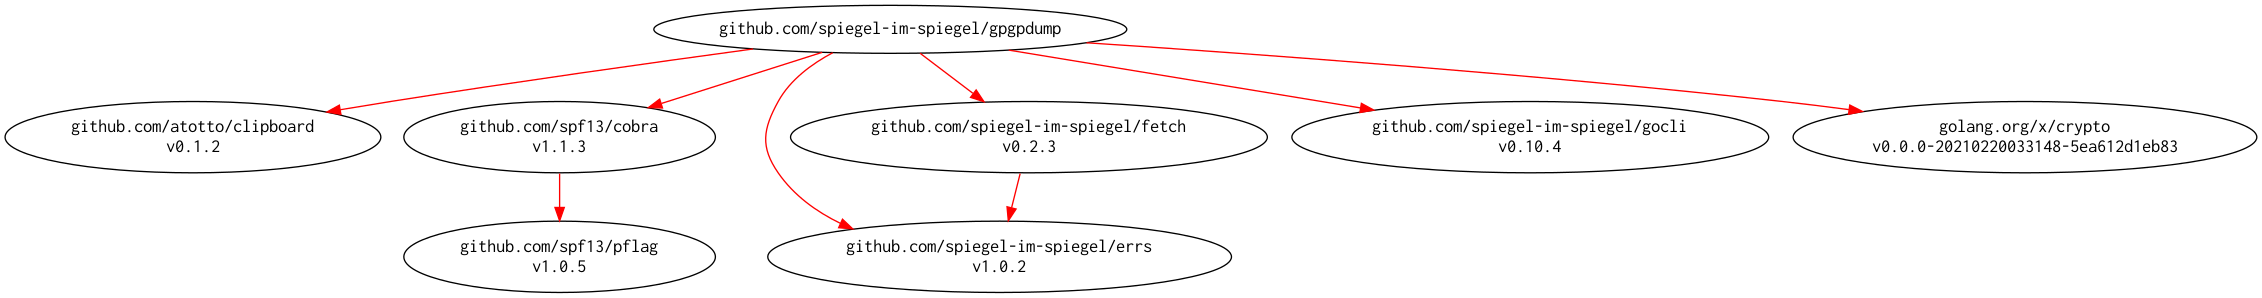
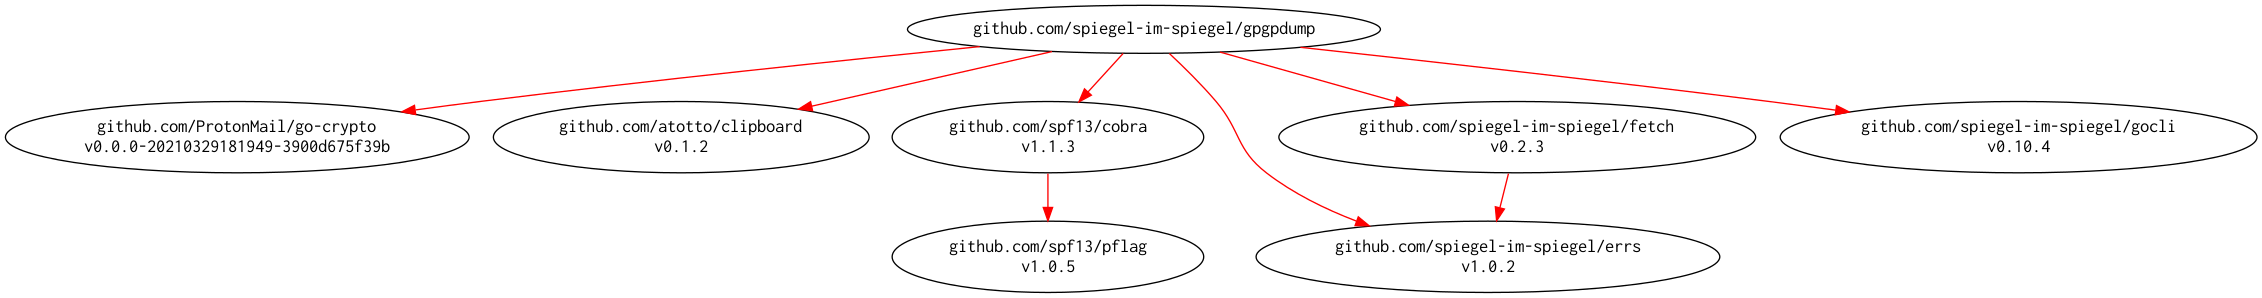
Change golang.org/x/crypto/openpgp to github.com/ProtonMail/go-crypto/openpgp package

diff --git a/parse/tags/tags.go b/parse/tags/tags.go
@@ -1,11 +1,11 @@
 package tags
 
 import (
+	"github.com/ProtonMail/go-crypto/openpgp/packet"
 	"github.com/spiegel-im-spiegel/gpgpdump/parse/context"
 	"github.com/spiegel-im-spiegel/gpgpdump/parse/reader"
 	"github.com/spiegel-im-spiegel/gpgpdump/parse/result"
 	"github.com/spiegel-im-spiegel/gpgpdump/parse/values"
-	"golang.org/x/crypto/openpgp/packet"
 )
 
 //tagInfo class as packet result. for all tags

diff --git a/parse/tags/subs.go b/parse/tags/subs.go
@@ -1,11 +1,11 @@
 package tags
 
 import (
+	"github.com/ProtonMail/go-crypto/openpgp/packet"
 	"github.com/spiegel-im-spiegel/gpgpdump/parse/context"
 	"github.com/spiegel-im-spiegel/gpgpdump/parse/reader"
 	"github.com/spiegel-im-spiegel/gpgpdump/parse/result"
 	"github.com/spiegel-im-spiegel/gpgpdump/parse/values"
-	"golang.org/x/crypto/openpgp/packet"
 )
 
 //subInfo class as Sub-packet result.

diff --git a/parse/tags/tag01_test.go b/parse/tags/tag01_test.go
@@ -3,10 +3,10 @@ package tags
 import (
 	"testing"
 
+	"github.com/ProtonMail/go-crypto/openpgp/packet"
 	"github.com/spiegel-im-spiegel/gpgpdump/parse/context"
 	"github.com/spiegel-im-spiegel/gpgpdump/parse/reader"
 	"github.com/spiegel-im-spiegel/gpgpdump/parse/values"
-	"golang.org/x/crypto/openpgp/packet"
 )
 
 var (

diff --git a/parse/tags/tag02_test.go b/parse/tags/tag02_test.go
@@ -3,10 +3,10 @@ package tags
 import (
 	"testing"
 
+	"github.com/ProtonMail/go-crypto/openpgp/packet"
 	"github.com/spiegel-im-spiegel/gpgpdump/parse/context"
 	"github.com/spiegel-im-spiegel/gpgpdump/parse/reader"
 	"github.com/spiegel-im-spiegel/gpgpdump/parse/values"
-	"golang.org/x/crypto/openpgp/packet"
 )
 
 var (

diff --git a/parse/tags/tag03_test.go b/parse/tags/tag03_test.go
@@ -3,10 +3,10 @@ package tags
 import (
 	"testing"
 
+	"github.com/ProtonMail/go-crypto/openpgp/packet"
 	"github.com/spiegel-im-spiegel/gpgpdump/parse/context"
 	"github.com/spiegel-im-spiegel/gpgpdump/parse/reader"
 	"github.com/spiegel-im-spiegel/gpgpdump/parse/values"
-	"golang.org/x/crypto/openpgp/packet"
 )
 
 var (

diff --git a/parse/tags/tag04_test.go b/parse/tags/tag04_test.go
@@ -3,10 +3,10 @@ package tags
 import (
 	"testing"
 
+	"github.com/ProtonMail/go-crypto/openpgp/packet"
 	"github.com/spiegel-im-spiegel/gpgpdump/parse/context"
 	"github.com/spiegel-im-spiegel/gpgpdump/parse/reader"
 	"github.com/spiegel-im-spiegel/gpgpdump/parse/values"
-	"golang.org/x/crypto/openpgp/packet"
 )
 
 var (

diff --git a/parse/tags/tag05_test.go b/parse/tags/tag05_test.go
@@ -3,10 +3,10 @@ package tags
 import (
 	"testing"
 
+	"github.com/ProtonMail/go-crypto/openpgp/packet"
 	"github.com/spiegel-im-spiegel/gpgpdump/parse/context"
 	"github.com/spiegel-im-spiegel/gpgpdump/parse/reader"
 	"github.com/spiegel-im-spiegel/gpgpdump/parse/values"
-	"golang.org/x/crypto/openpgp/packet"
 )
 
 var (

diff --git a/parse/tags/tag06_test.go b/parse/tags/tag06_test.go
@@ -3,10 +3,10 @@ package tags
 import (
 	"testing"
 
+	"github.com/ProtonMail/go-crypto/openpgp/packet"
 	"github.com/spiegel-im-spiegel/gpgpdump/parse/context"
 	"github.com/spiegel-im-spiegel/gpgpdump/parse/reader"
 	"github.com/spiegel-im-spiegel/gpgpdump/parse/values"
-	"golang.org/x/crypto/openpgp/packet"
 )
 
 var (

diff --git a/parse/tags/tag07_test.go b/parse/tags/tag07_test.go
@@ -3,10 +3,10 @@ package tags
 import (
 	"testing"
 
+	"github.com/ProtonMail/go-crypto/openpgp/packet"
 	"github.com/spiegel-im-spiegel/gpgpdump/parse/context"
 	"github.com/spiegel-im-spiegel/gpgpdump/parse/reader"
 	"github.com/spiegel-im-spiegel/gpgpdump/parse/values"
-	"golang.org/x/crypto/openpgp/packet"
 )
 
 var (

diff --git a/parse/tags/tag08_test.go b/parse/tags/tag08_test.go
@@ -3,10 +3,10 @@ package tags
 import (
 	"testing"
 
+	"github.com/ProtonMail/go-crypto/openpgp/packet"
 	"github.com/spiegel-im-spiegel/gpgpdump/parse/context"
 	"github.com/spiegel-im-spiegel/gpgpdump/parse/reader"
 	"github.com/spiegel-im-spiegel/gpgpdump/parse/values"
-	"golang.org/x/crypto/openpgp/packet"
 )
 
 var (

diff --git a/parse/tags/tag10_test.go b/parse/tags/tag10_test.go
@@ -3,10 +3,10 @@ package tags
 import (
 	"testing"
 
+	"github.com/ProtonMail/go-crypto/openpgp/packet"
 	"github.com/spiegel-im-spiegel/gpgpdump/parse/context"
 	"github.com/spiegel-im-spiegel/gpgpdump/parse/reader"
 	"github.com/spiegel-im-spiegel/gpgpdump/parse/values"
-	"golang.org/x/crypto/openpgp/packet"
 )
 
 var (

diff --git a/parse/tags/tag11_test.go b/parse/tags/tag11_test.go
@@ -3,10 +3,10 @@ package tags
 import (
 	"testing"
 
+	"github.com/ProtonMail/go-crypto/openpgp/packet"
 	"github.com/spiegel-im-spiegel/gpgpdump/parse/context"
 	"github.com/spiegel-im-spiegel/gpgpdump/parse/reader"
 	"github.com/spiegel-im-spiegel/gpgpdump/parse/values"
-	"golang.org/x/crypto/openpgp/packet"
 )
 
 var (
